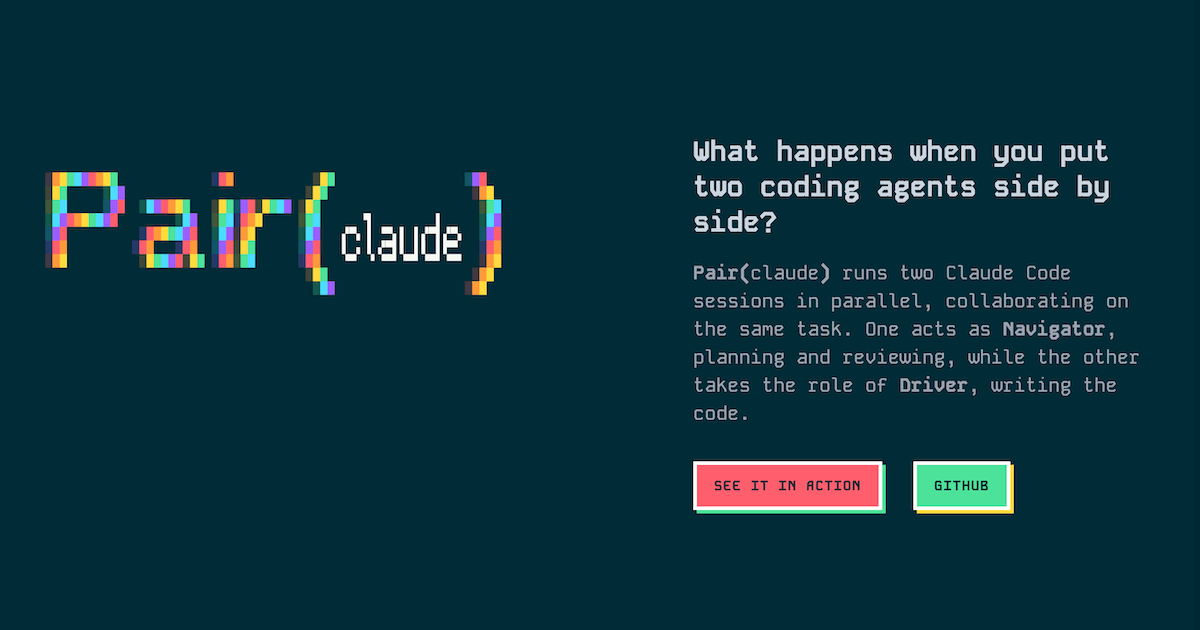
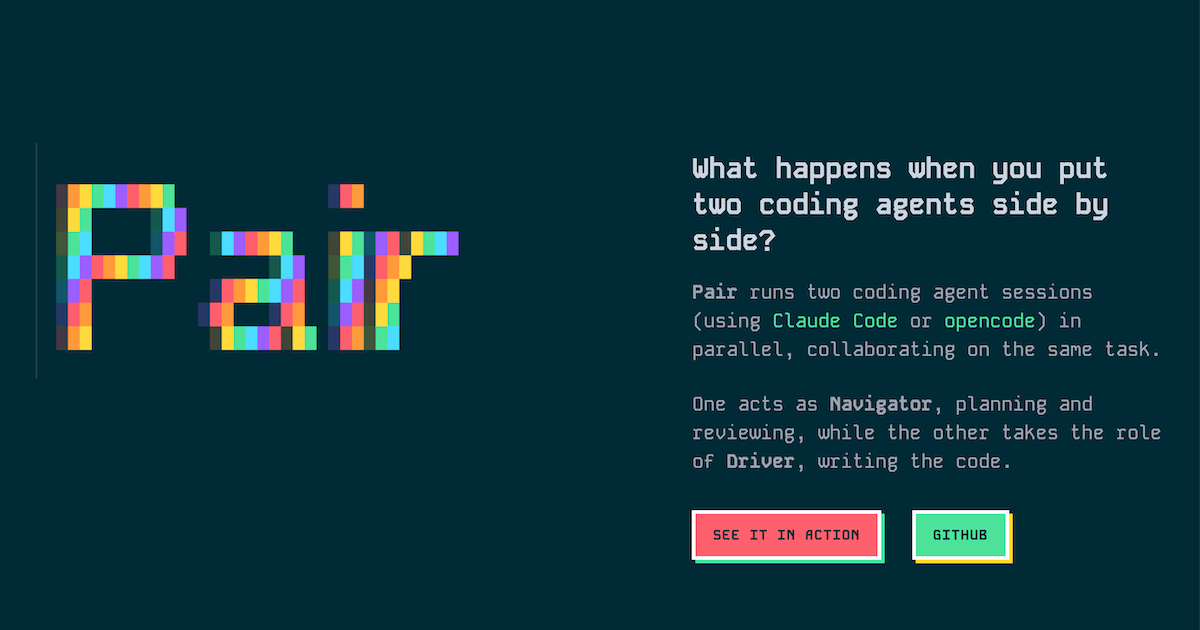
Update site (#25)
* feat(site): update to reflect addition of opencode provider
* feat(site): update preview image
* feat(site): minor fixes

Changed region(s): [[0.555, 0.2111, 0.9867, 0.9048], [0.0308, 0.2714, 0.4317, 0.573]]

diff --git a/docs/index.html b/docs/index.html
@@ -3,49 +3,51 @@
 <head>
   <meta charset="utf-8" />
   <meta name="viewport" content="width=device-width, initial-scale=1" />
-  <title>Pair(claude) — Collaborative AI Pair Programming Experiment</title>
-  <meta name="description" content="Pair(claude) is an experimental CLI that runs two Claude Code agents side-by-side — a Navigator and a Driver — to explore the benefits of parallel pair programming." />
+  <title>Pair — Collaborative AI Pair Programming Experiment</title>
+  <meta name="description" content="Pair is an experimental CLI that runs two coding agents side-by-side — a Navigator and a Driver — to explore the benefits of parallel pair programming." />
   <meta name="color-scheme" content="dark light" />
   <meta name="theme-color" content="#f7f8fb" />
   <link rel="preconnect" href="https://fonts.googleapis.com">
   <link rel="preconnect" href="https://fonts.gstatic.com" crossorigin>
   <link href="https://fonts.googleapis.com/css2?family=Kode+Mono:wght@400..700&display=swap" rel="stylesheet">
   <link rel="preconnect" href="https://asciinema.org" />
-  <link rel="icon" type="image/svg+xml" href="assets/favicon.ico" />
+  <link rel="icon" type="image/svg+xml" href="assets/favicon.png" />
 
   <!-- Open Graph / Twitter -->
-  <meta property="og:title" content="Pair(claude) — Dual Claude Code Pair Programming" />
-  <meta property="og:description" content="Experimental A pair programming session with two Claude Code agents: Navigator + Driver running in parallel for collaborative development." />
+  <meta property="og:title" content="Pair — Dual Coding Agents Pair Programming" />
+  <meta property="og:description" content="Experimental A pair programming session with two coding agents: Navigator + Driver running in parallel for collaborative development." />
   <meta property="og:type" content="website" />
   <meta property="og:url" content="" />
-  <meta property="og:image" content="https://yoavf.github.io/pair-claude/assets/preview.png" />
+  <meta property="og:image" content="https://yoavf.github.io/pair/assets/preview.png" />
   <meta name="twitter:card" content="summary_large_image" />
-  <meta name="twitter:title" content="Pair(claude) — Dual Claude Code Pair Programming" />
-  <meta name="twitter:description" content="Experimental pair programming session with two Claude Code agents: Navigator + Driver running in parallel for collaborative development." />
-  <meta name="twitter:image" content="https://yoavf.github.io/pair-claude/assets/preview.png" />
+  <meta name="twitter:title" content="Pair — Dual Coding Agents Pair Programming" />
+  <meta name="twitter:description" content="Experimental pair programming session with two coding agents: Navigator + Driver running in parallel for collaborative development." />
+  <meta name="twitter:image" content="https://yoavf.github.io/pair/assets/preview.png" />
 
   <link rel="stylesheet" href="styles.css?v=2" />
   <script src="https://cdn.counter.dev/script.js" data-id="4fbcc31f-5f37-40c3-8788-8fb56c79209b" data-utcoffset="3"></script>
 </head>
 <body>
   <!-- Top GitHub Link -->
-  <a class="top-github" id="topGithub" href="https://github.com/yoavf/pair-claude" target="_blank" rel="noopener">GitHub ↗</a>
+  <a class="top-github" id="topGithub" href="https://github.com/yoavf/pair" target="_blank" rel="noopener">GitHub ↗</a>
 
   <!-- Banner Image -->
   <div class="ascii-banner" id="banner">
-    <img src="assets/pair-claude.png" alt="pair claude" id="bannerImage" />
+    <img src="assets/pair.png" alt="pair" id="bannerImage" />
   </div>
 
   <!-- Hero Text -->
   <div class="hero-text">
-    <p class="tagline">What happens when you put two coding agents side by side?</p>
+    <p class="tagline">What happens when you let multiple coding agents work on the same task together?</p>
     <p class="description">
-      <b>Pair(</b>claude<b>)</b> runs two Claude Code sessions in parallel, collaborating on the same task.
+      <b>Pair</b> runs two coding agent sessions (using <a href="https://claude.com/product/claude-code" target="_blank">Claude Code</a> or <a href="https://opencode.ai">opencode</a>) in parallel, collaborating on the same task.
+    </p>
+    <p class="description">
       One acts as <b>Navigator</b>, planning and reviewing, while the other takes the role of <b>Driver</b>, writing the code.
     </p>
     <div class="cta-row">
       <a class="btn" href="#" id="actionBtn">See it in action</a>
-      <a class="btn secondary" href="https://github.com/yoavf/pair-claude" target="_blank" rel="noopener">GitHub</a>
+      <a class="btn secondary" href="https://github.com/yoavf/pair" target="_blank" rel="noopener">GitHub</a>
     </div>
   </div>
 
@@ -97,43 +99,39 @@
       <h2 style="color: #ffffff; text-align: center; margin-bottom: 40px; font-size: 24px;">FAQ</h2>
 
       <div style="margin-bottom: 30px;">
-        <h3 style="color: #4be29a; margin-bottom: 10px;">What is Pair(claude)?</h3>
-        <p>Pair(claude) is an experiment in running two Claude Code sessions in <a href="https://en.wikipedia.org/wiki/Pair_programming" target="_blank">pair programming</a> mode.</p>
+        <h3 style="color: #4be29a; margin-bottom: 10px;">What is Pair?</h3>
+        <p>Pair is an experiment in running two coding agents sessions in <a href="https://en.wikipedia.org/wiki/Pair_programming" target="_blank">pair programming</a> mode. It currently supports Claude Code and opencode.</p>
       </div>
 
       <div style="margin-bottom: 30px;">
         <h3 style="color: #4be29a; margin-bottom: 10px;">How does it work?</h3>
-        <p>Using the Claude Code sdk and two sessions, messages are relayed between a <i>Driver</i> who makes the change and a <i>Navigator</i> who reviews and provides guidance and feedback. The navigator approves all file edits, and when asked by the Driver, performs a full code review.</p>
+        <p>It starts with the Navigator planning the task, then moves to a pair coding session where messages are relayed between a <i>Driver</i> who makes the changes and the <i>Navigator</i> who reviews and provides guidance. The navigator approves all file edits, and when asked by the Driver, performs a full code review.</p>
       </div>
 
       <div style="margin-bottom: 30px;">
         <h3 style="color: #4be29a; margin-bottom: 10px;">How can I try this?</h3>
         <p>
-          Run <code>npx @yoavf/pair claude</code> to start a Pair(claude) session.
-        </p>
-        <p>
-          If you want the <code>pair</code> command available permanently on your system, install it globally with <code>npm install -g @yoavf/pair</code>.
-          After that, you can run <code>pair claude</code> anytime.
+          If you're already using Claude Code, simply run <code>npx @yoavf/pair</code> to start a Pair session. See the full docs for information on how to select the provider (Claude Code or opencode) and the model for each role.
         </p>
       </div>
 
       <div style="margin-bottom: 30px;">
         <h3 style="color: #4be29a; margin-bottom: 10px;">I have an idea! / It doesn't work</h3>
         <p>
-          That's not a question :) - But hey, I'd love to know more. Head over to <a href="https://github.com/yoavf/pair-claude" target="_blank">GitHub</a> to participate!
+          That's not a question :) - But hey, I'd love to know more. Head over to <a href="https://github.com/yoavf/pair" target="_blank">GitHub</a> to participate!
         </p>
       </div>
     </div>
 
     <!-- Footer -->
     <div class="footer" style="margin-top: 60px;">
-      <p>Pair(claude) — an experiment by <a href="https://yoav.blog" target="_blank" rel="noopener">Yoav Farhi</a> • <a href="https://github.com/yoavf" target="_blank" rel="noopener">@yoavf</a></p>
+      <p>Pair — an experiment by <a href="https://yoav.blog" target="_blank" rel="noopener">Yoav Farhi</a> • <a href="https://github.com/yoavf" target="_blank" rel="noopener">@yoavf</a></p>
     </div>
   </div>
 
   <script>
     // Configure your GitHub repo URL here (will populate both links)
-    window.GITHUB_URL = 'https://github.com/yoavf/pair-claude';
+    window.GITHUB_URL = 'https://github.com/yoavf/pair';
 
     // List your Asciinema sessions here. Each entry needs an id (the asciicast ID) and a title.
     window.ASCIICASTS = [

diff --git a/docs/main.js b/docs/main.js
@@ -1,7 +1,7 @@
 
 function updateParallax() {
   const scrollY = window.pageYOffset;
-  const progress = Math.min(1, scrollY / 500);
+  const progress = Math.min(1, scrollY / 900);
 
   console.log('Scroll:', scrollY, 'Progress:', progress);
 
@@ -11,7 +11,7 @@ function updateParallax() {
   const scrollArrow = document.querySelector('.scroll-arrow');
 
   if (topGithub) {
-    if (progress > 0.4) {
+    if (progress > 0.7) {
       topGithub.classList.add('visible');
     } else {
       topGithub.classList.remove('visible');
